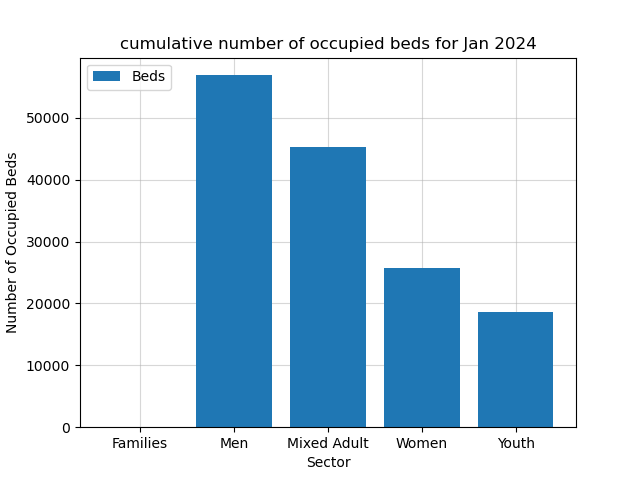
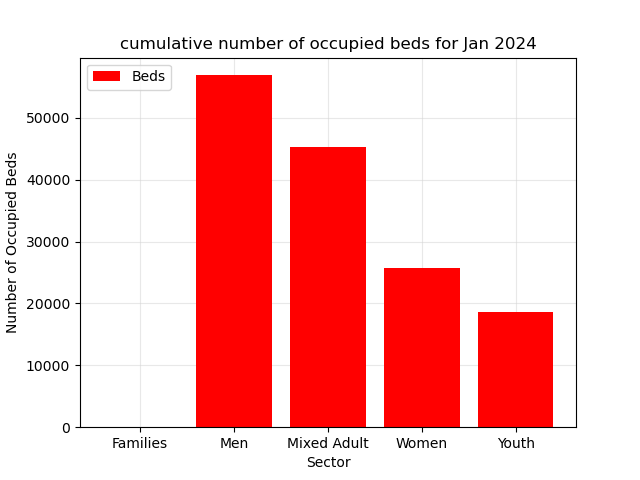
modified code to take in-line arguments, job configuration, and user configuration. Also, added the the output files from teh code

Changed region(s): [[0.2812, 0.1562, 0.7188, 0.9062], [0.75, 0.625, 0.875, 0.9062], [0.125, 0.125, 0.1875, 0.1875]]

diff --git a/Assignment.py b/Assignment.py
@@ -4,8 +4,21 @@ import numpy as np
 import matplotlib as mp 
 import seaborn as sb 
 import plotly as plt 
+import argparse
+import yaml 
 
+# Load the YAML configuration file
+config_files = ['job_config.yml', 'user_config.yml']
+config = {}
 
+for this_config_file in config_files:
+    with open(this_config_file, 'r') as yamlfile:
+        this_config = yaml.safe_load(yamlfile)
+        config.update(this_config)
+
+#with open('job_config.yml', 'r') as file:
+#   config = yaml.safe_load(file)
+    
 # %% [markdown]
 # # Metadata Review
 # 
@@ -34,7 +47,15 @@ import plotly as plt
 pd.set_option("display.max_columns", None) # to display all columns in a dataset
 
 # 1. Load the data to a single DataFrame
-data = pd.read_csv('Daily shelter overnight occupancy.csv')
+parser = argparse.ArgumentParser(description='Process a file.')
+
+parser.add_argument('filename', type=str, help='The name of the file to process')
+
+args = parser.parse_args()
+file_name = args.filename
+
+#Daily shelter overnight occupancy.csv
+data = pd.read_csv(file_name)
 data
 
 # %% [markdown]
@@ -210,13 +231,16 @@ data_without_bed_capcity_nan
 
 # %%
 #1. Use groupby() to split your data into groups based on one of the columns.
-sector_groups = data.groupby('sector')
+
+group_by_column = config['job_settings']['group_by_column']
+
+sector_groups = data.groupby(group_by_column)
 
 sector_groups['occupancy_rate_beds'].mean()
 
 # %%
 # 2. #Use agg() to apply multiple functions on different columns and create a summary table. Calculating group sums or standardizing data are two examples of possible functions that you can use.
-occupancy_summary = (data.groupby('sector')
+occupancy_summary = (data.groupby(group_by_column)
                      .agg(bed_occupancy_sum = ('occupied_beds', 'sum'),
                          bed_mean_occupancy_rate = ('occupancy_rate_beds', 'mean'),
                          room_occupancy_sum = ('occupied_rooms', 'sum'),
@@ -241,17 +265,25 @@ summary_plot
 #%matplotlib inline 
 import matplotlib.pyplot as mplt
 
+# Extract plot settings from the configuration
+bed_color = config['user_settings']['bed_color']
+grid_color = config['user_settings']['grid_color']
+grid_alpha = config['user_settings']['grid_alpha']
+
 fig, ax = mplt.subplots()
 
+beds = ax.bar(summary_plot['sector'], summary_plot['bed_occupancy_sum'], color=bed_color)
 
-beds = ax.bar(summary_plot['sector'], summary_plot['bed_occupancy_sum'])
+#beds = ax.bar(summary_plot['sector'], summary_plot['bed_occupancy_sum'])
 #rooms = ax.bar(summary_plot['sector'], summary_plot['room_occupancy_sum'])
 ax.set_title('cumulative number of occupied beds for Jan 2024')
 ax.set_xlabel('Sector')
 ax.set_ylabel('Number of Occupied Beds')
 ax.set_axisbelow(True)
 
-ax.grid(alpha = 0.5)
+#ax.grid(alpha = 0.5)
+ax.grid(color=grid_color, alpha=grid_alpha)
+
 ax.legend([beds], ['Beds'],
           bbox_to_anchor = (0,1),
           loc = 'upper left')
@@ -288,7 +320,7 @@ bar_width = 0.35
 # Setting the positions of the bars on the x-axis
 indices = np.arange(len(summary_plot['sector']))
 
-beds = ax.bar(indices - bar_width/2, summary_plot['bed_occupancy_sum'], bar_width, label='Bed Occupancy')
+beds = ax.bar(indices - bar_width/2, summary_plot['bed_occupancy_sum'], bar_width, label='Bed Occupancy', color=bed_color)
 rooms = ax.bar(indices + bar_width/2, summary_plot['room_occupancy_sum'], bar_width, label='Room Occupancy')
 ax.set_title('cumulative number of occupied beds/rooms for Jan 2024')
 ax.set_xlabel('Sector')
